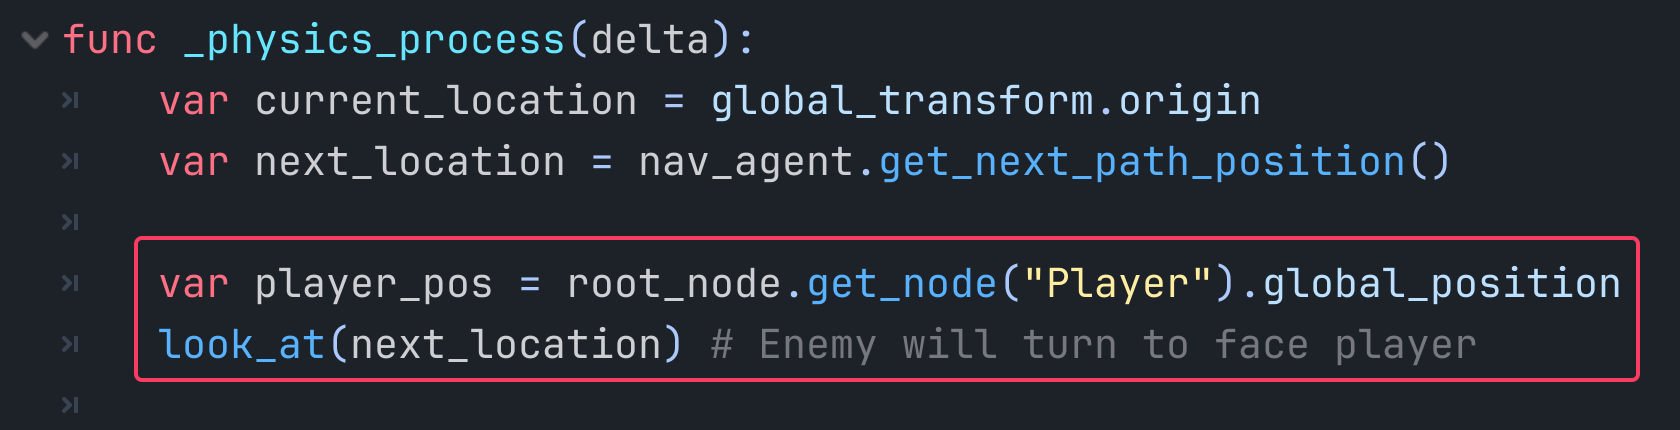
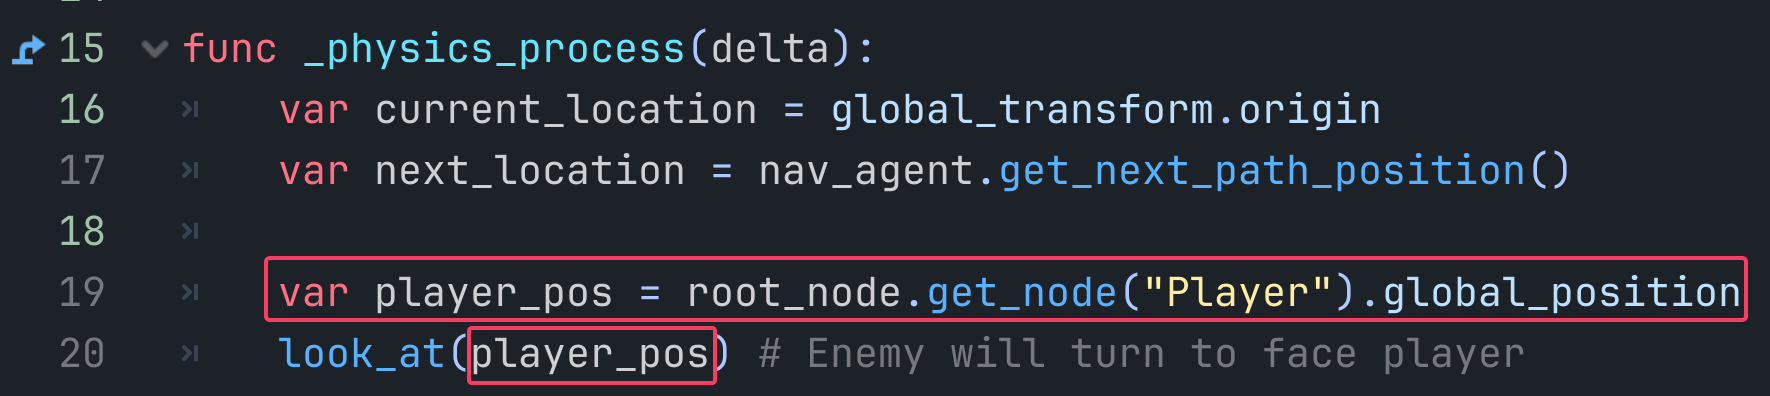
fix images

diff --git a/ISD/2 - Digital Applications/_topics/tutorials/Enemy Pathfinding.md b/ISD/2 - Digital Applications/_topics/tutorials/Enemy Pathfinding.md
@@ -123,5 +123,7 @@ Update the `_physics_process()` function to find the Player node's position and 
 
 Your Enemy objects should now face the exact position of the player.
 
+![pathfindingLookingAtPlayer](ISD/2%20-%20Digital%20Applications/_topics/tutorials/images/pathfindingLookingAtPlayer.png)
+
 ![[commonBlocks#Commit & Push]]
 
